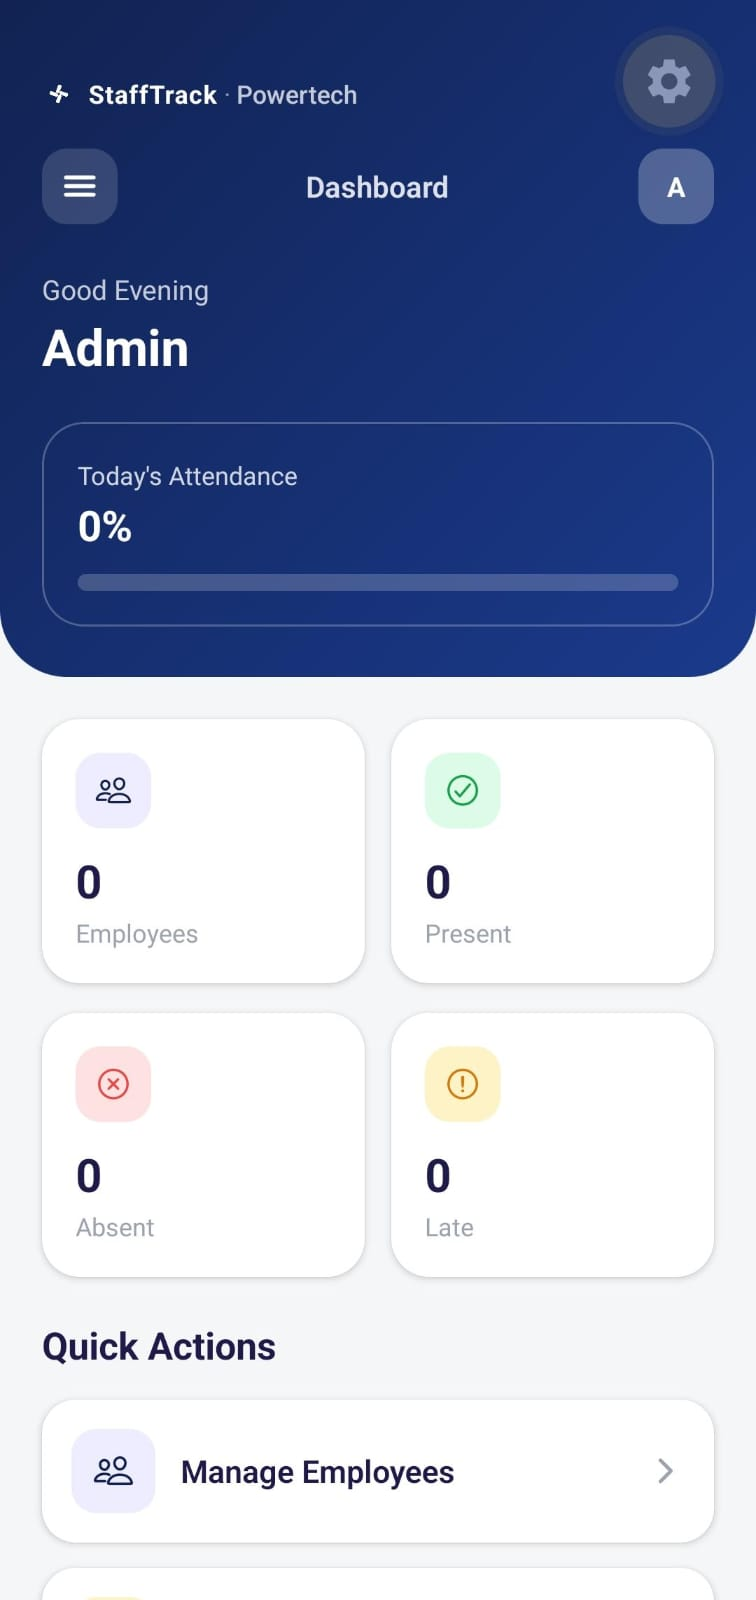
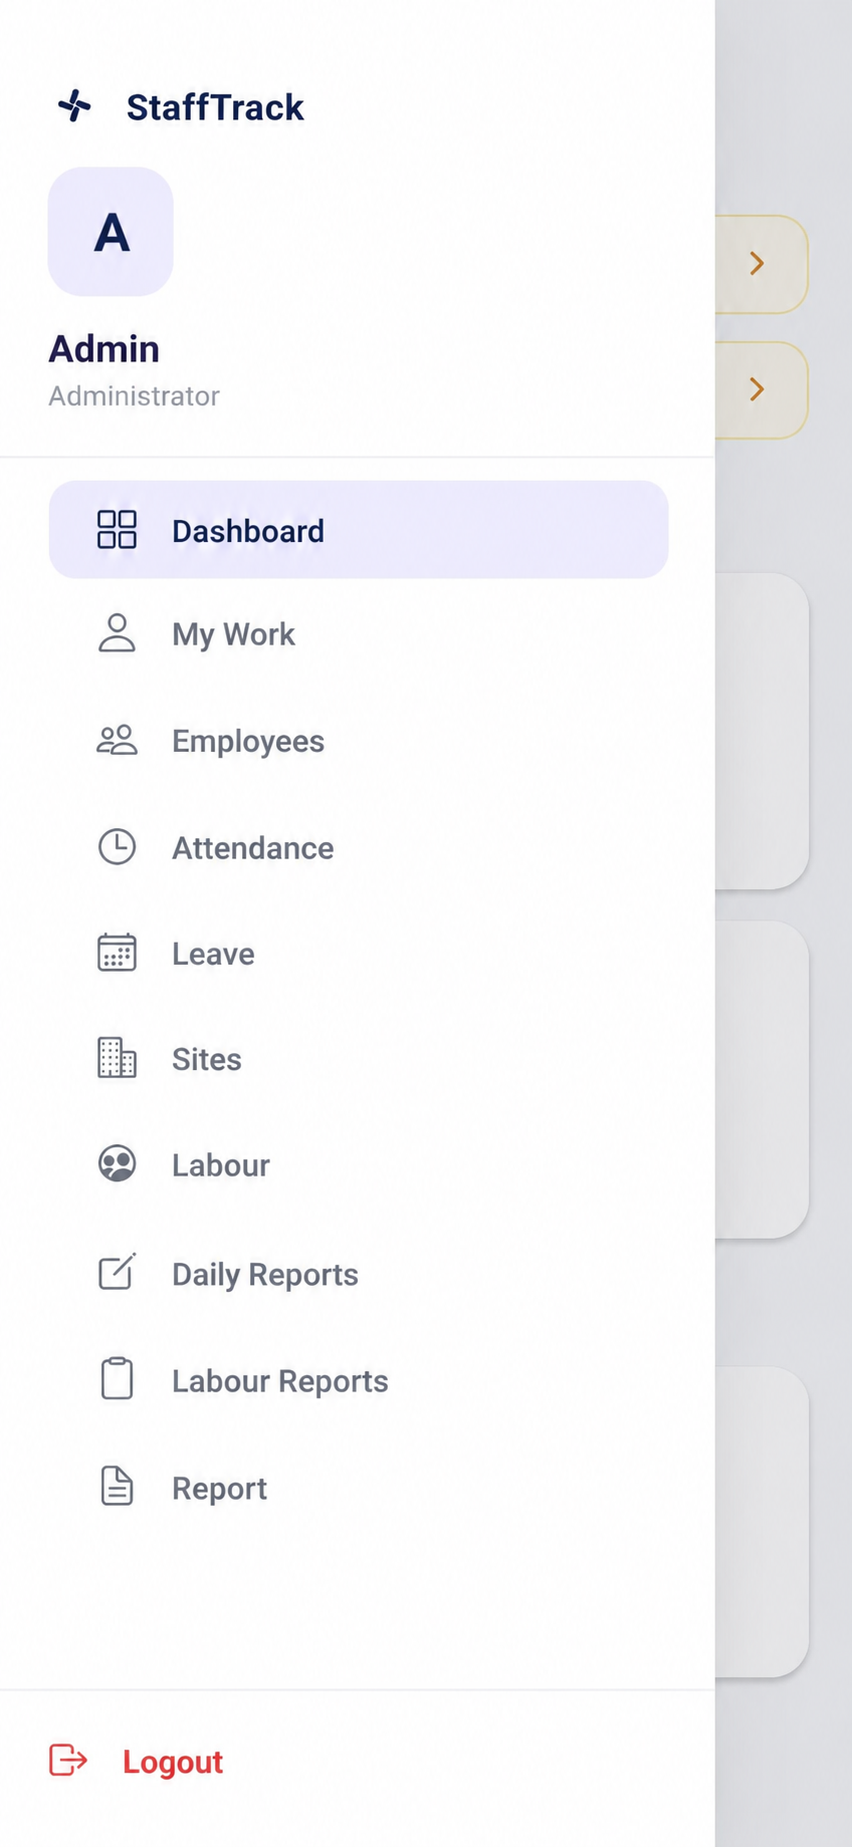
Added Stafftrack Images and Removed Pricing

diff --git a/src/lib/data.ts b/src/lib/data.ts
@@ -304,11 +304,28 @@ export const products: Product[] = [
       "/products/stafftrack-hrms/1.png",
       "/products/stafftrack-hrms/2.png",
       "/products/stafftrack-hrms/3.png",
+      "/products/stafftrack-hrms/4.png",
+      "/products/stafftrack-hrms/5.png",
+      "/products/stafftrack-hrms/6.png",
+      "/products/stafftrack-hrms/7.png",
+      "/products/stafftrack-hrms/8.png",
+      "/products/stafftrack-hrms/9.png",
+      "/products/stafftrack-hrms/10.png",
+      "/products/stafftrack-hrms/11.png",
+      "/products/stafftrack-hrms/12.png",
+      "/products/stafftrack-hrms/13.png",
+      "/products/stafftrack-hrms/14.png",
+      "/products/stafftrack-hrms/15.png",
+      "/products/stafftrack-hrms/16.png",
+      "/products/stafftrack-hrms/17.png",
+      "/products/stafftrack-hrms/18.png",
+      "/products/stafftrack-hrms/19.png",
+      "/products/stafftrack-hrms/20.png",
     ],
     features: [
       "Geolocation attendance & selfie check-in",
       "Leave management with approval flows",
-      "Automated payroll & salary slips",
+      "Automated payroll & salary slips Summary",
       "Travel & expense tracking",
       "Holiday calendars & shift settings",
       "Reports, exports & multi-company support",
@@ -654,7 +671,7 @@ export const blogPosts: BlogPost[] = [
 
 export const siteConfig = {
   name: "Spereon.codes",
-  email: "info@spereon.codes",
+  email: "spereon.codes@gmail.com",
   phone: "+91 87933 20820",
   address: "Pune, Maharashtra, India",
   social: {
